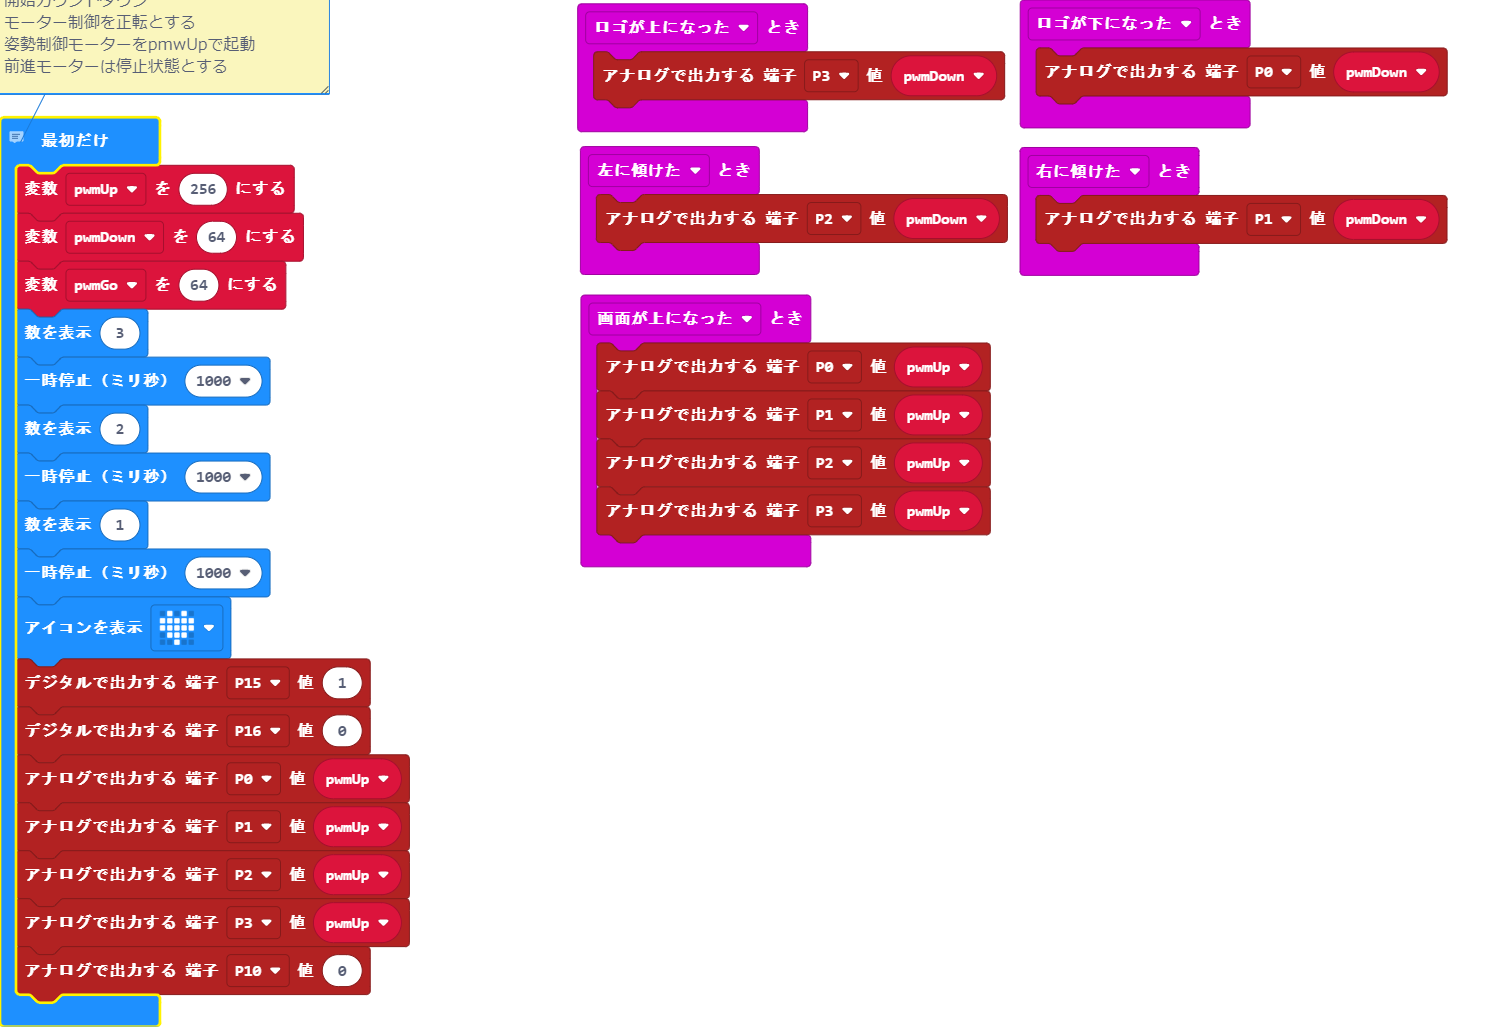
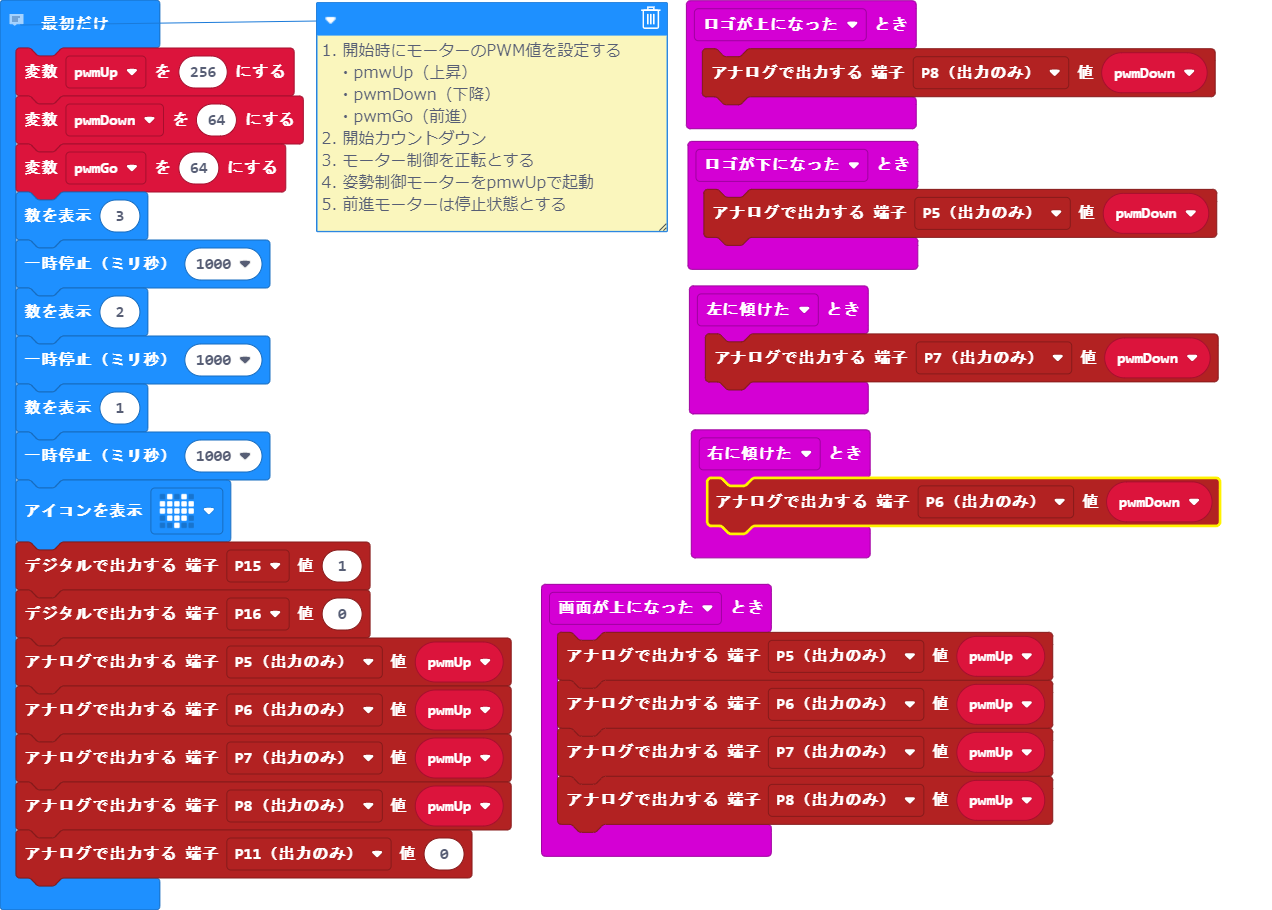
モーター出力ピンの変更

diff --git a/main.ts b/main.ts
@@ -1,20 +1,20 @@
 input.onGesture(Gesture.ScreenUp, function () {
-    pins.analogWritePin(AnalogPin.P0, pwmUp)
-    pins.analogWritePin(AnalogPin.P1, pwmUp)
-    pins.analogWritePin(AnalogPin.P2, pwmUp)
-    pins.analogWritePin(AnalogPin.P3, pwmUp)
+    pins.analogWritePin(AnalogPin.P5, pwmUp)
+    pins.analogWritePin(AnalogPin.P6, pwmUp)
+    pins.analogWritePin(AnalogPin.P7, pwmUp)
+    pins.analogWritePin(AnalogPin.P8, pwmUp)
 })
 input.onGesture(Gesture.TiltRight, function () {
-    pins.analogWritePin(AnalogPin.P1, pwmDown)
+    pins.analogWritePin(AnalogPin.P6, pwmDown)
 })
 input.onGesture(Gesture.TiltLeft, function () {
-    pins.analogWritePin(AnalogPin.P2, pwmDown)
+    pins.analogWritePin(AnalogPin.P7, pwmDown)
 })
 input.onGesture(Gesture.LogoUp, function () {
-    pins.analogWritePin(AnalogPin.P3, pwmDown)
+    pins.analogWritePin(AnalogPin.P8, pwmDown)
 })
 input.onGesture(Gesture.LogoDown, function () {
-    pins.analogWritePin(AnalogPin.P0, pwmDown)
+    pins.analogWritePin(AnalogPin.P5, pwmDown)
 })
 // 1. 開始時にモーターのPWM値を設定する
 // 　・pmwUp（上昇）
@@ -38,8 +38,8 @@ basic.pause(1000)
 basic.showIcon(IconNames.Heart)
 pins.digitalWritePin(DigitalPin.P15, 1)
 pins.digitalWritePin(DigitalPin.P16, 0)
-pins.analogWritePin(AnalogPin.P0, pwmUp)
-pins.analogWritePin(AnalogPin.P1, pwmUp)
-pins.analogWritePin(AnalogPin.P2, pwmUp)
-pins.analogWritePin(AnalogPin.P3, pwmUp)
-pins.analogWritePin(AnalogPin.P10, 0)
+pins.analogWritePin(AnalogPin.P5, pwmUp)
+pins.analogWritePin(AnalogPin.P6, pwmUp)
+pins.analogWritePin(AnalogPin.P7, pwmUp)
+pins.analogWritePin(AnalogPin.P8, pwmUp)
+pins.analogWritePin(AnalogPin.P11, 0)
